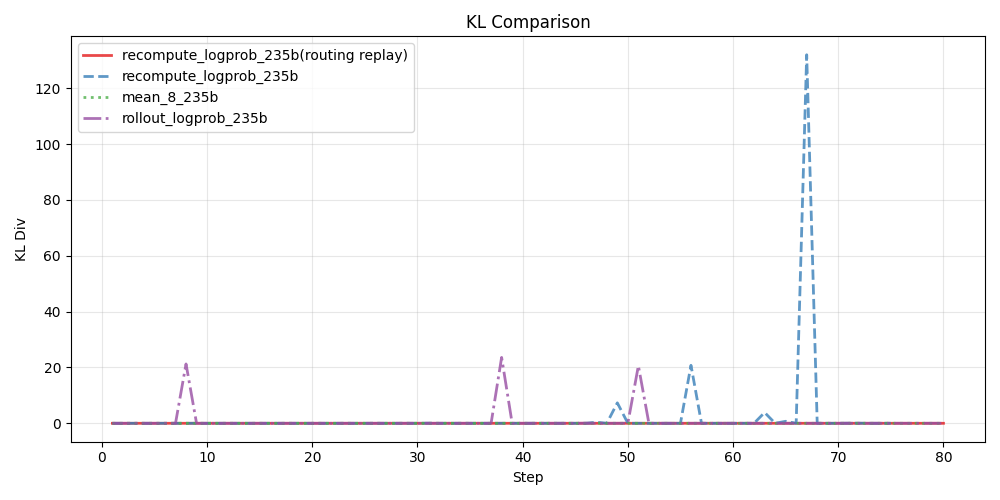
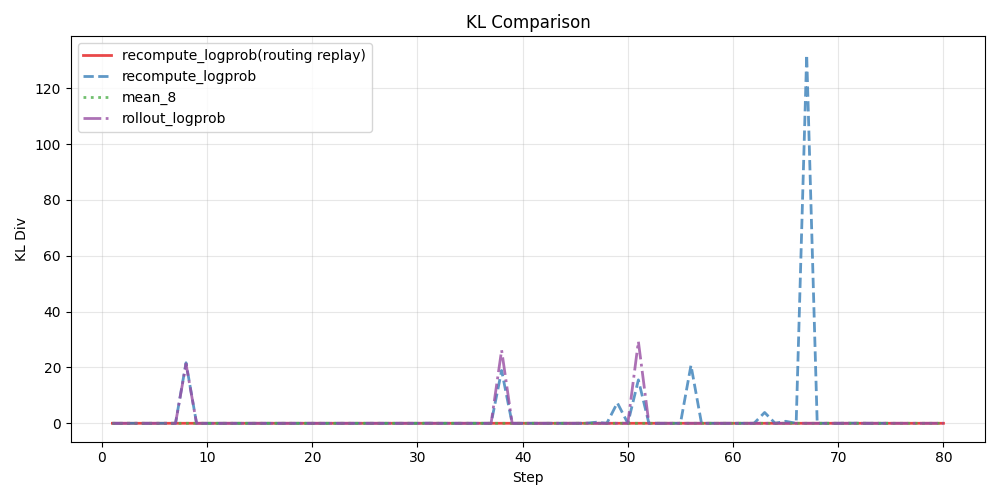
修改图片

diff --git a/src/content/posts/katcoder_1201.md b/src/content/posts/katcoder_1201.md
@@ -12,7 +12,7 @@ draft: false
 当前业界大多把模型在RL训练时出现reward 崩溃的问题归因于“训推不一致”。然而，我们的实验发现：**当前阶段 RL 训练不稳定的主导因素并不是训推不一致，而是采样噪声（Sampling Noise）本身**。当我们显式抑制噪声强度后，即使存在明显的训推差异，训练依旧保持稳定，并能获得更快的收敛速度。
 基于此技术，KAT-Coder-Pro V1经过我们大规模agentic RL后，其综合能力得以与世界头部的模型相比肩，在权威评测机构 Artificial Analysis（AA）榜单中表现亮眼，以 64 分综合评分跻身全球总榜TOP 10，更以绝对优势在 Non-Reasoning Model 中斩获第一名。
 
-![aa分数](/test-github-page/images/1201_blog/score_all.png)
+![aa分数](/kwaikat-blog/images/1201_blog/score_all.png)
 ---
 
 ### 当前重要性采样的实现方式：偏差–方差视角
@@ -105,14 +105,14 @@ $$
 我们对比了以下四种典型方案：
 
 1. TIS（Truncated Importance Sampling）：在计算重要性权重w(a)时设置上下界（clipping），以控制方差放大。
-2. 使用推理引擎采样概率（rollout\_logprob\_235b）：使用 rollout 阶段推理引擎输出的$\pi_{\text{sampler}}$作为$\pi_{\text{rollout}}$。
-3. 训练引擎重新计算概率（recompute\_logprob\_235b）：在 rollout 结束后，利用训练后端重新计算$\pi_{\text{learner}}$并作为旧策略概率。
+2. 使用推理引擎采样概率（rollout\_logprob）：使用 rollout 阶段推理引擎输出的$\pi_{\text{sampler}}$作为$\pi_{\text{rollout}}$。
+3. 训练引擎重新计算概率（recompute\_logprob）：在 rollout 结束后，利用训练后端重新计算$\pi_{\text{learner}}$并作为旧策略概率。
 4. Routing Replay：在重计算阶段强制复用 rollout 阶段的专家路由，以减少路由随机性造成的波动。
 
 我们的多次采样估计法（Ours）：对同一输入重复前向n=8次，取平均概率作为旧策略概率。
 
 图1 展示了不同方法在训练过程中的 reward 变化曲线。可以观察到：
-line_graph
+![line_graph](/kwaikat-blog/images/1201_blog/line_graph.png)
 
 * recompute\_logprob、rollout\_logprob 两种方法均在训练后期出现明显的 reward 崩溃或震荡放大现象，实验中具体表现为 reward 在 60\~80 step 之后快速下降，并无法逆转。
 * Routing Replay 在一定程度上缓解了崩溃，reward 能始终保持相对稳定。但实现时为了避免rollout吞吐大幅下降，在多轮场景下无法保证prefix cache 100%命中，因此其效果无法达到最优。
@@ -120,7 +120,7 @@ line_graph
 
 此外，为了验证我们的方法确实能够有效降低$\hat{\pi}_{\text{rollout}}$和$\pi_{\text{train}}$之间的偏差，我们统计了训练过程中两者之间的KL散度，如下图所示：
 
-kl_compare
+![kl_compare](/kwaikat-blog/images/1201_blog/kl_compare.png)
 从图中可以看出，不管是使用训练引擎重新计算logprob还是直接使用推理引擎的logprob，都会在训练过程中出现KL散度的剧烈波动，而routing replay和我们的低方差采样概率估计都能在整个训练过程中将KL散度保持在较低水平。
 
 ---
